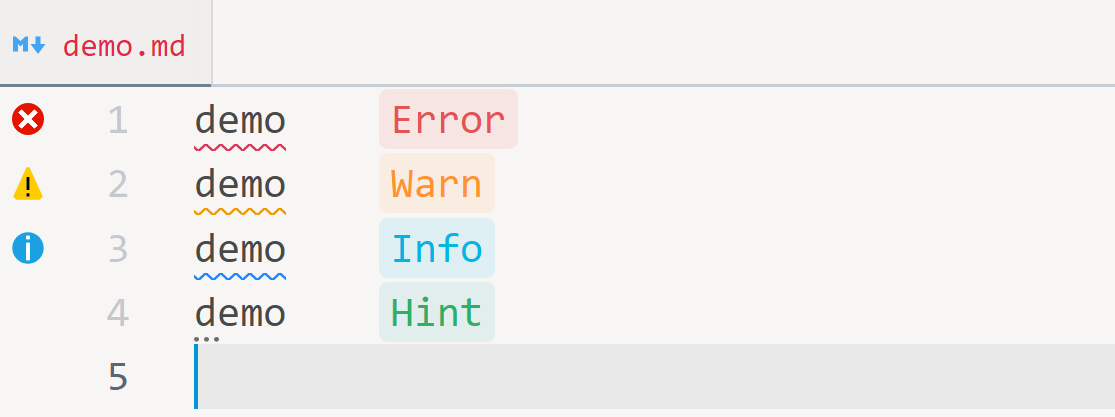
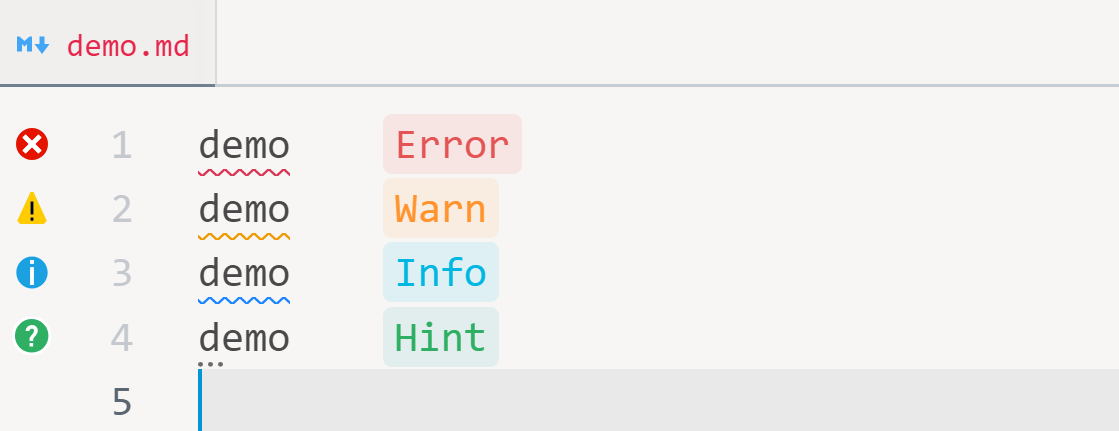
docs: add outline gutter sample

diff --git a/docs/docs.md b/docs/docs.md
@@ -17,10 +17,10 @@
 
 ### If you don't want to go with the hotkey route - it's possible to:
 
-1) Exclude problems (in workspace, by source, by code, by message)
-1) Show fewer decorations (render decoration only on the active line)
-1) Delay showing decorations (delay ms / on document save)
-1) Transform problem message (make it shorter maybe)
+1) Exclude problems (in workspace, by source, by code, by message) [**exclude**](#errorlensexclude), [**excludeBySource**](#errorlensexcludebysource), [**excludePatterns(Glob)**](#errorlensexcludepatterns), [excludeWorkspaces](#errorlensexcludeworkspaces)
+1) Show fewer decorations (render decoration only on the active line) [**followCursor**](#errorlensfollowcursor)
+1) Delay showing decorations (delay ms / on document save) [**delay**](#errorlensdelay), [**onSave**](#errorlensonsave), [**ignoreDirty**](#errorlensignoredirty)
+1) Transform problem message (make it shorter maybe) [**replace**](#errorlensreplace)
 1) Configure other settings or colors to make it less distracting
 
 ### 1. Exclude problems:
@@ -811,12 +811,12 @@ Show icons for Errors & Warnings in status bar similar to native ones, but with 
 <tr>
 <td>
 
-<img width="500" src="./img/status_bar_icons_enabled.png">
+<img width="400" src="./img/status_bar_icons_enabled.png">
 
 </td>
 <td>
 
-<img width="450" src="./img/status_bar_icons_hover.png">
+<img width="400" src="./img/status_bar_icons_hover.png">
 
 </td>
 </tr>
@@ -1333,8 +1333,8 @@ Change size of gutter icons:
 <tbody>
 
 <tr>
-<th>"default"</th>
-<th>"circle"</th>
+<th align="center">"default"</th>
+<th align="center">"defaultOutline"</th>
 </tr>
 
 <tr>
@@ -1346,14 +1346,15 @@ Change size of gutter icons:
 
 <td>
 
-![](./img/gutter_icons_circle.png)
+
+![](./img/gutter_icons_default_outline.png)
 
 </td>
 </tr>
 
 <tr>
-<th>"squareRounded"</th>
-<th>"letter"</th>
+<th align="center">"squareRounded"</th>
+<th align="center">"circle"</th>
 </tr>
 
 <tr>
@@ -1365,24 +1366,26 @@ Change size of gutter icons:
 
 <td>
 
+![](./img/gutter_icons_circle.png)
+
+</td>
+</tr>
+
+<tr>
+<th align="center">"letter"</th>
+<th align="center">"emoji"</th>
+</tr>
+
+<tr>
+<td>
+
 ![](./img/gutter_icons_letter.png)
 
 </td>
-</tr>
 
-<tr>
-<th>"emoji"</th>
-<th></th>
-</tr>
-
-<tr>
 <td>
 
 ![](./img/gutter_icons_emoji.png)
-
-</td>
-
-<td>
 
 </td>
 </tr>
@@ -1533,6 +1536,12 @@ When [errorLens.removeLinebreaks](#errorlensremovelinebreaks) is enabled => repl
 
 ### `errorLens.scrollbarHackEnabled`
 
+VSCode has a setting to completely disable horizontal scrollbar (better than this scrollbar hack and also will apply to any other extension that contributes inline messages):
+
+```js
+"editor.scrollbar.horizontal": "hidden",
+```
+
 When showing inline message decorations - VSCode also shows horizontal scrollbar that stays even after message is removed. This is a hack that makes inline message to be absolutely positioned `position:absolute;` to not show any scrollbars. It can make the [errorLens.padding](#errorlenspadding) look differently though.
 
 <table>
@@ -1590,28 +1599,6 @@ Advanced control over decorations (only problem message & problem range).
 </td>
 </tr>
 
-<tr>
-<td>
-
-```js
-"errorLens.decorations": {
-    "errorMessage": {
-        "textDecoration": ";border:1.2px dashed #e4545470;text-shadow:1px 1px 2px #e4545470;border-radius:0.3em;padding:0 0.5ch;",
-    },
-},
-```
-
-</td>
-</tr>
-
-<tr>
-<td>
-
-![](./img/decoration_text_shadow.png)
-
-</td>
-</tr>
-
 </tbody>
 </table>
 
@@ -1621,7 +1608,7 @@ When enabled - will not show any decorations in files with the file scheme `unti
 
 ### `errorLens.ignoreDirty`
 
-When enabled - will not show any decorations on Dirty (modified) files.
+When enabled - will not show any decorations on Dirty (modified) files. Only when `"files.autoSave"` is disabled (anything except `"afterDelay"`).
 
 ### `errorLens.codeLensEnabled`
 
@@ -1647,6 +1634,8 @@ Code Lens is clickable. This setting configures what happens when you click on C
 - `searchForProblem` => Search for problem message in your default browser (runs `errorLens.searchForProblem`)
 
 ---
+
+# Miscellaneous
 
 ## Custom CSS
 
